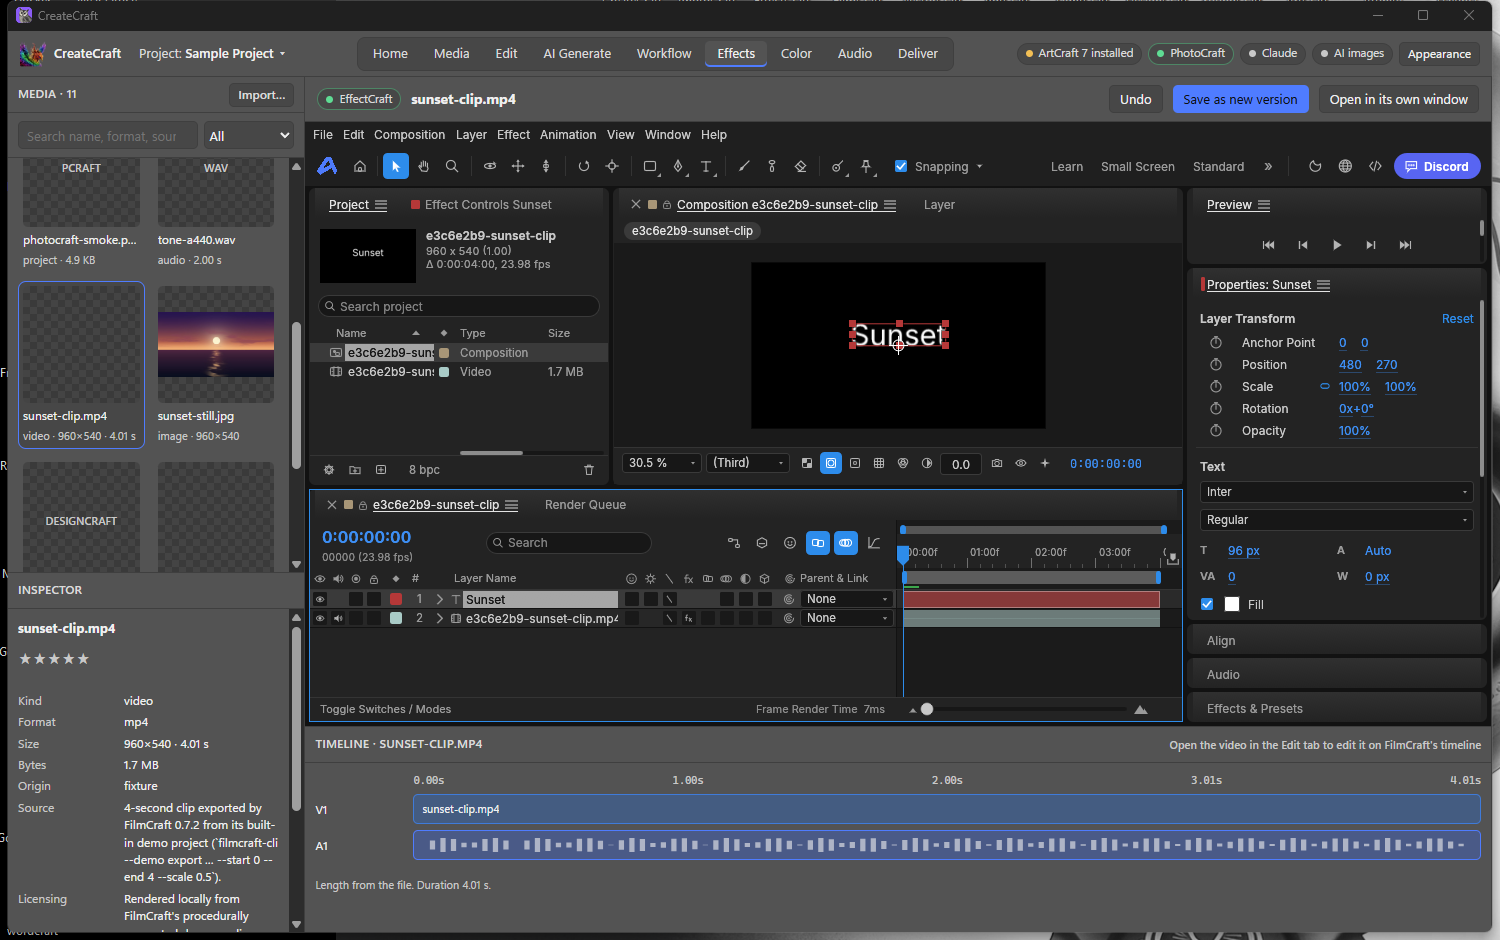
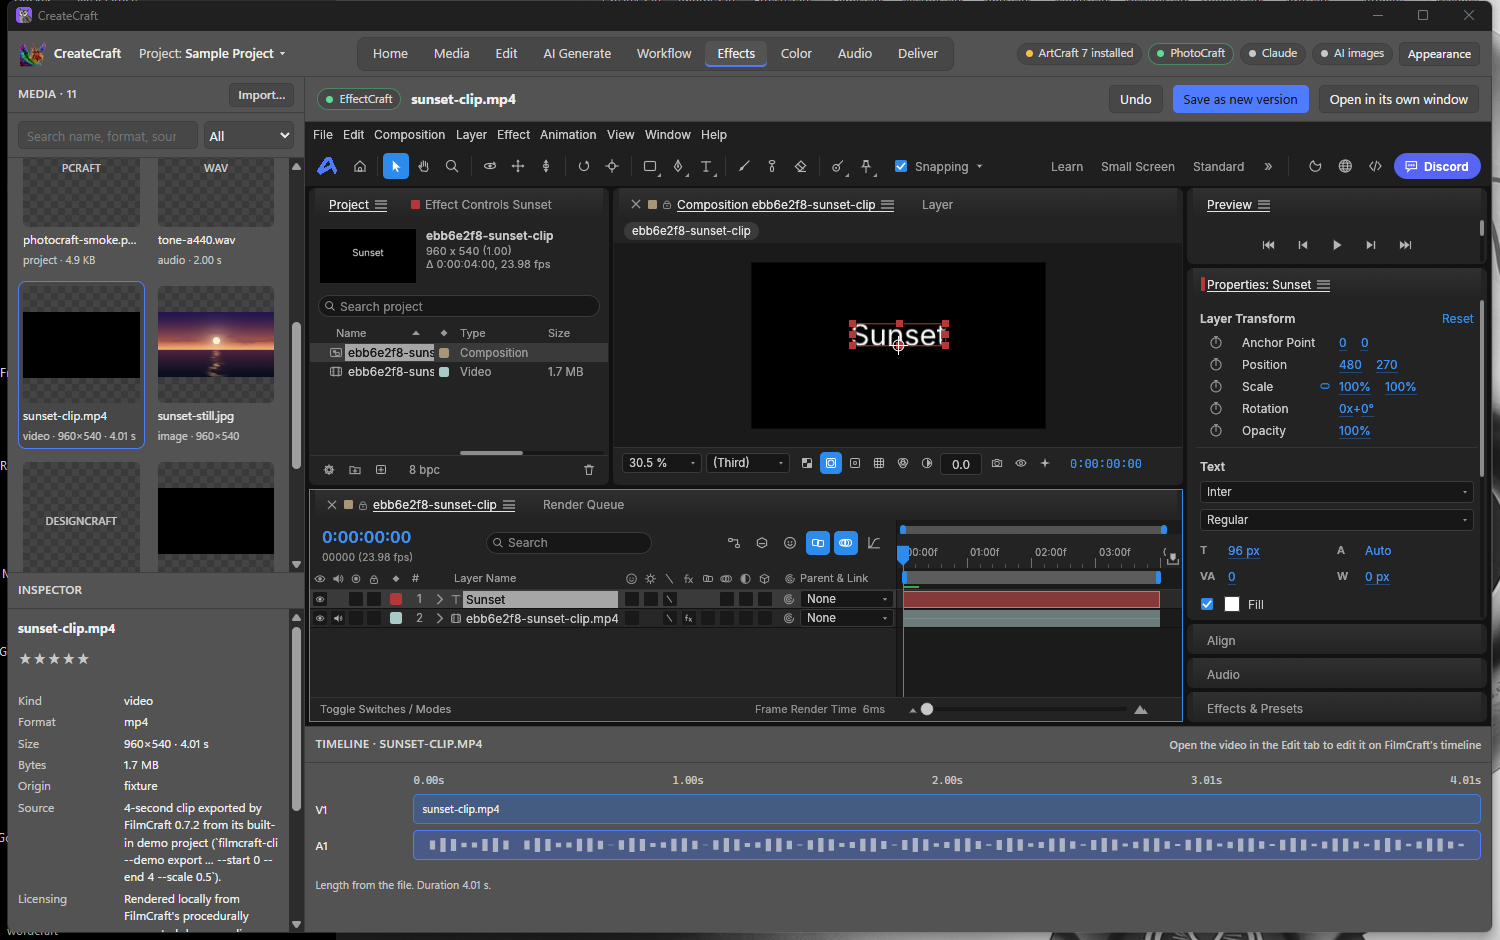
Apps smoke 20/20: record result and refresh screenshots

diff --git a/docs/integration-audit.md b/docs/integration-audit.md
@@ -129,7 +129,7 @@ the built app with the offline Mock model and a fake key (smoke tests).
 | LightCraft live control (Color tab) | **Real, verified** | `lightcraft --control <port> --memory --no-demo` (throwaway session; the user's LightCraft library is not touched); `lightcraft-cli mcp --connect`. Imports a copy from the work folder. Verified: auto, exposure/contrast/highlights/shadows, vibrance/saturation, clarity/dehaze, vignette, black & white, 15 built-in looks, reset, undo. Save = `app.export` full size |
 | EffectCraft live control (Effects tab) | **Real, verified** | `EFFECTCRAFT_CONTROL_PORT`; `effectcraft-cli mcp --bridge` with `--automation-read-root/--automation-write-root`. Never uses `script`. Verified: glow, gaussian blur, brush strokes, cartoon, posterize, add title, undo. Save = render queue H.264 MP4 (video) or `render_frame` PNG (picture); an unchanged save makes no new version |
 | DesignCraft live control (.designcraft in the Edit tab) | **Real, verified** | `designcraft --control <port>`; `designcraft-cli mcp --connect`. Open, history, undo, save as a new .designcraft + PNG of page 1. No quick edits: you edit with DesignCraft's own tools |
-| Phase 3 end-to-end in CreateCraft | **Real, verified** | `scripts/smoke-apps.mjs` 2026-10-14: 19/20, then the failing check (video thumbnails) was fixed (asset protocol needed `stream: true`) and re-checked on its own. Every app window the test opens is closed afterwards |
+| Phase 3 end-to-end in CreateCraft | **Real, verified** | `scripts/smoke-apps.mjs` 2026-10-14: 20/20 (video thumbnails needed `stream: true` on the asset protocol). Every app window the test opens is closed afterwards |
 | Edit lock / pause / take control / resync on live doc | **Real, verified** | `src/main/liveTask.ts`; unit tests + live integration tests + GUI live smoke (5/5) |
 | Live window capture | **Untested** | `WindowCapture` interface only; UI shows "not connected" |
 | Workflow "ArtCraft Edit" node in the app | **Real** (headless PhotoCraft) | Falls back to a labelled MOCK only if photocraft-cli.exe is missing; commands limited to an allowlist (adjustments, filters, rotations, fill) |
